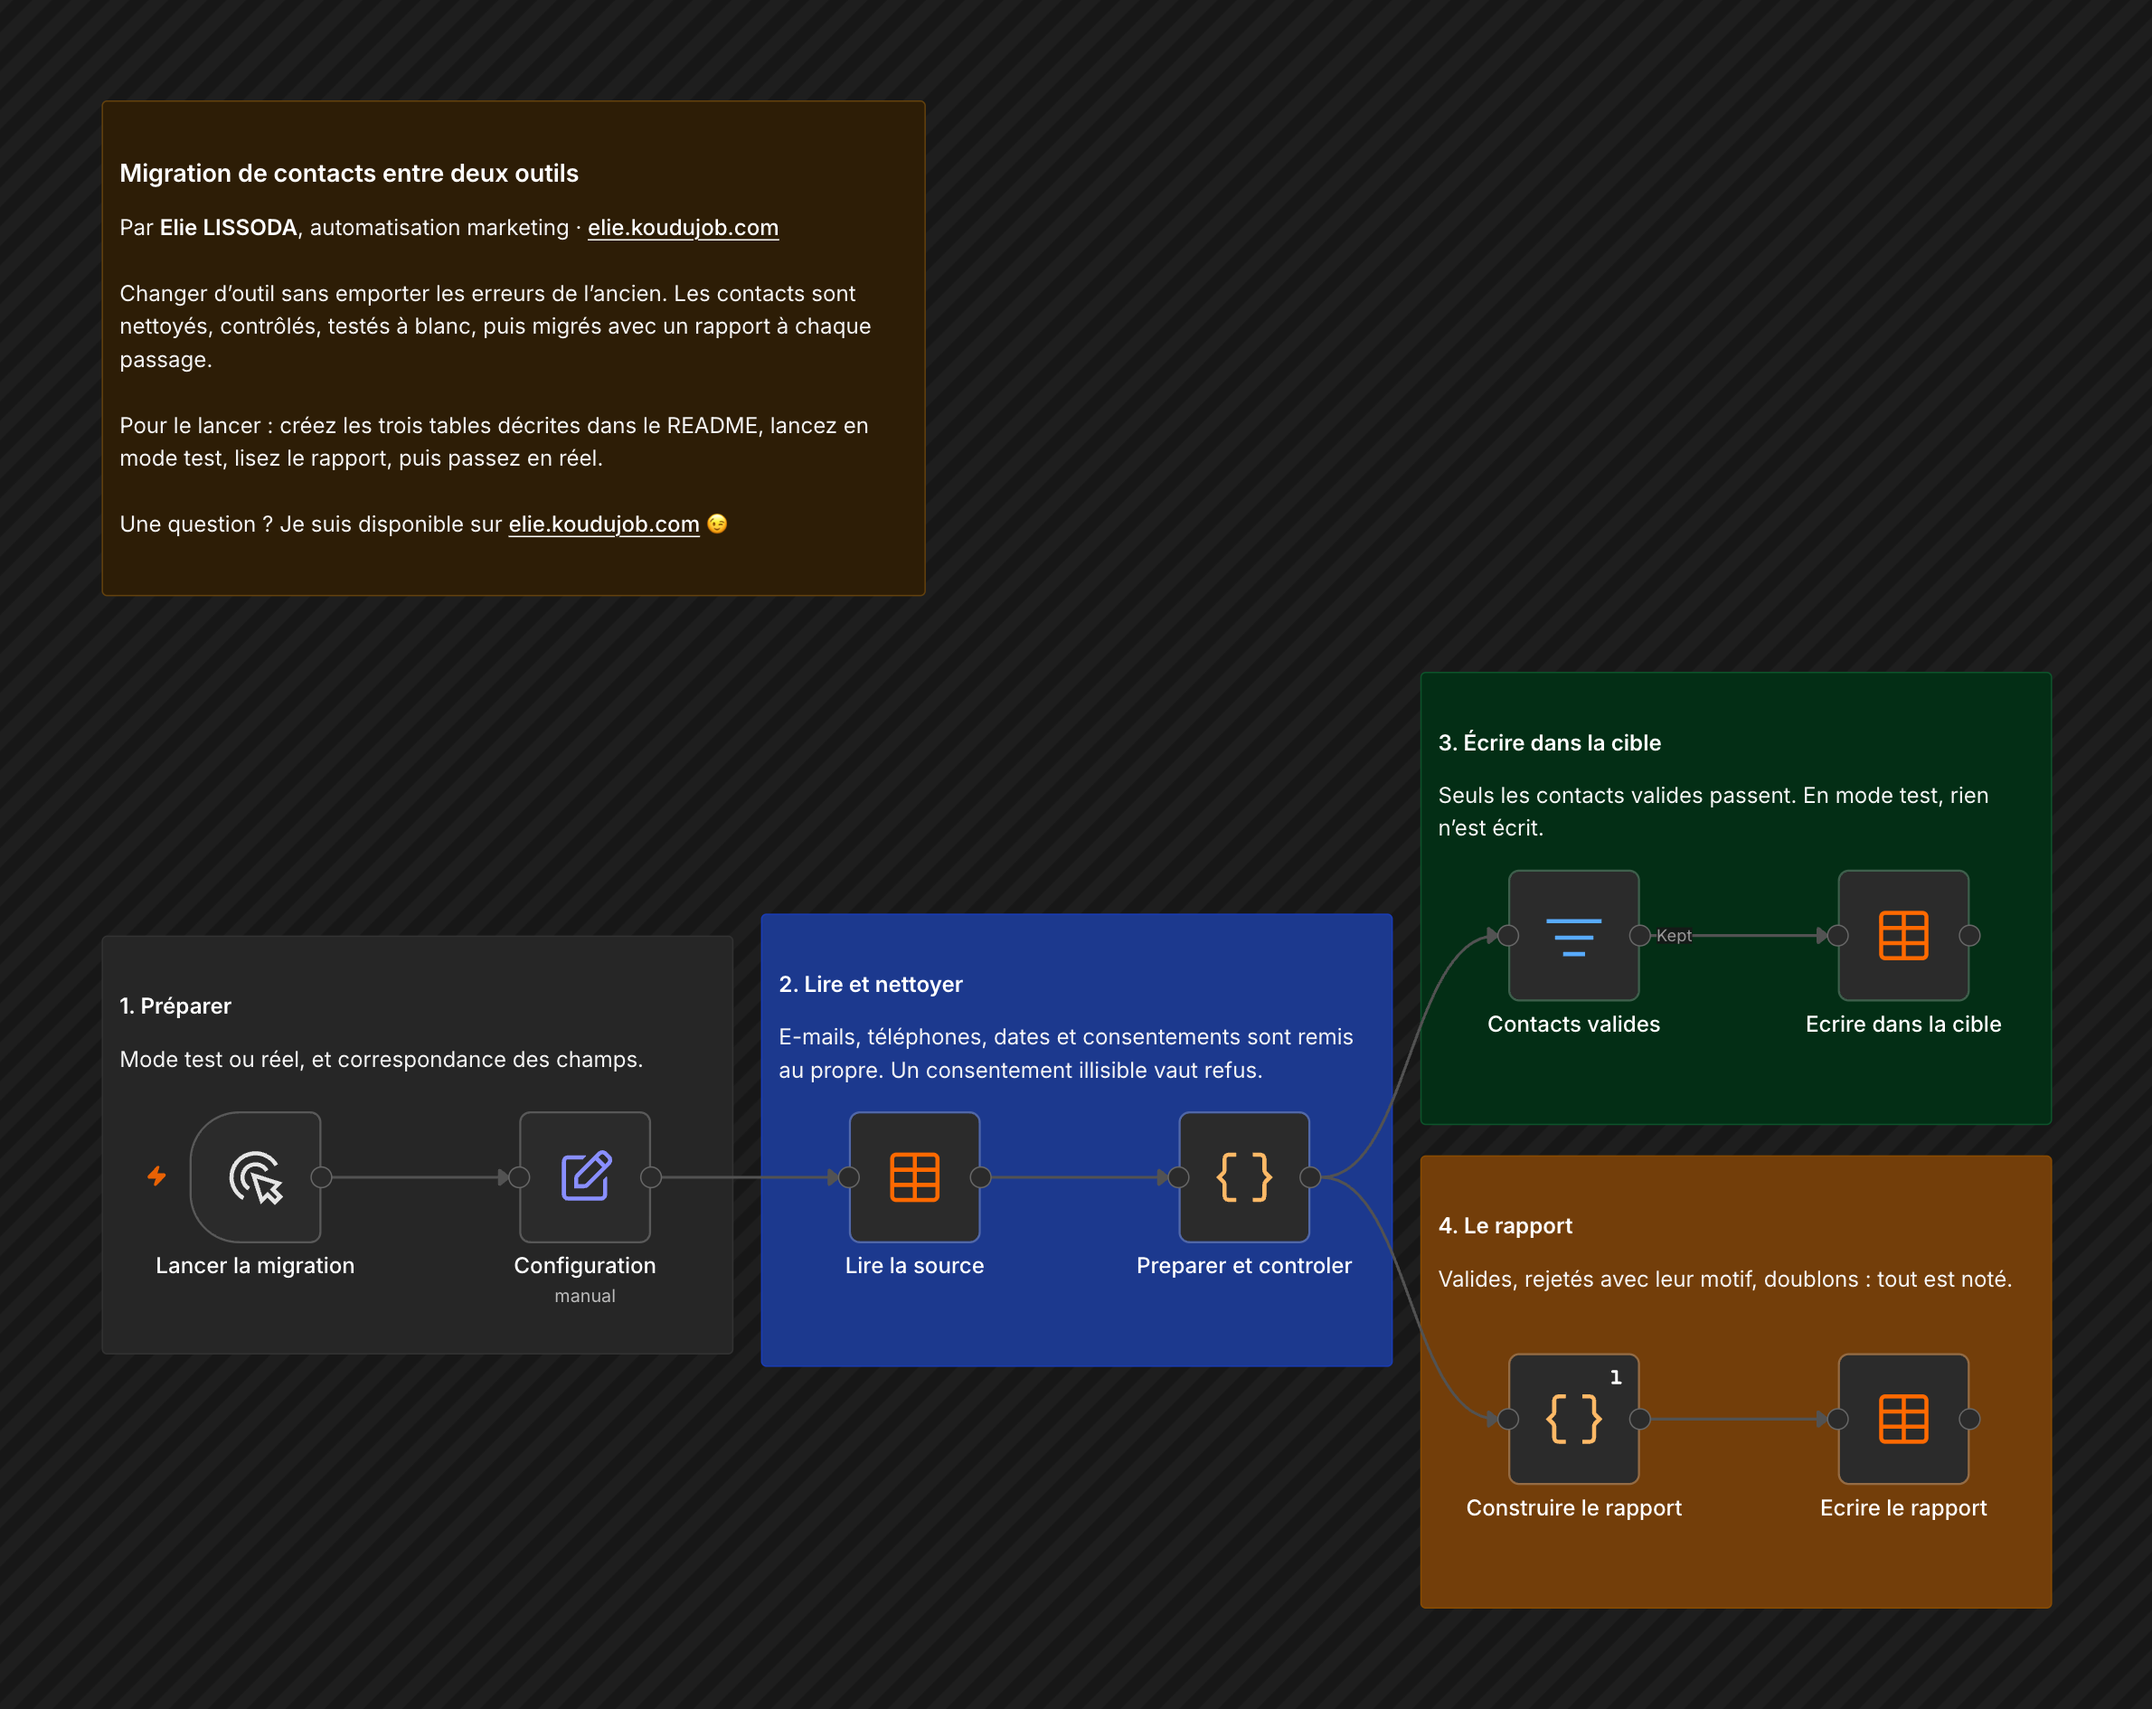
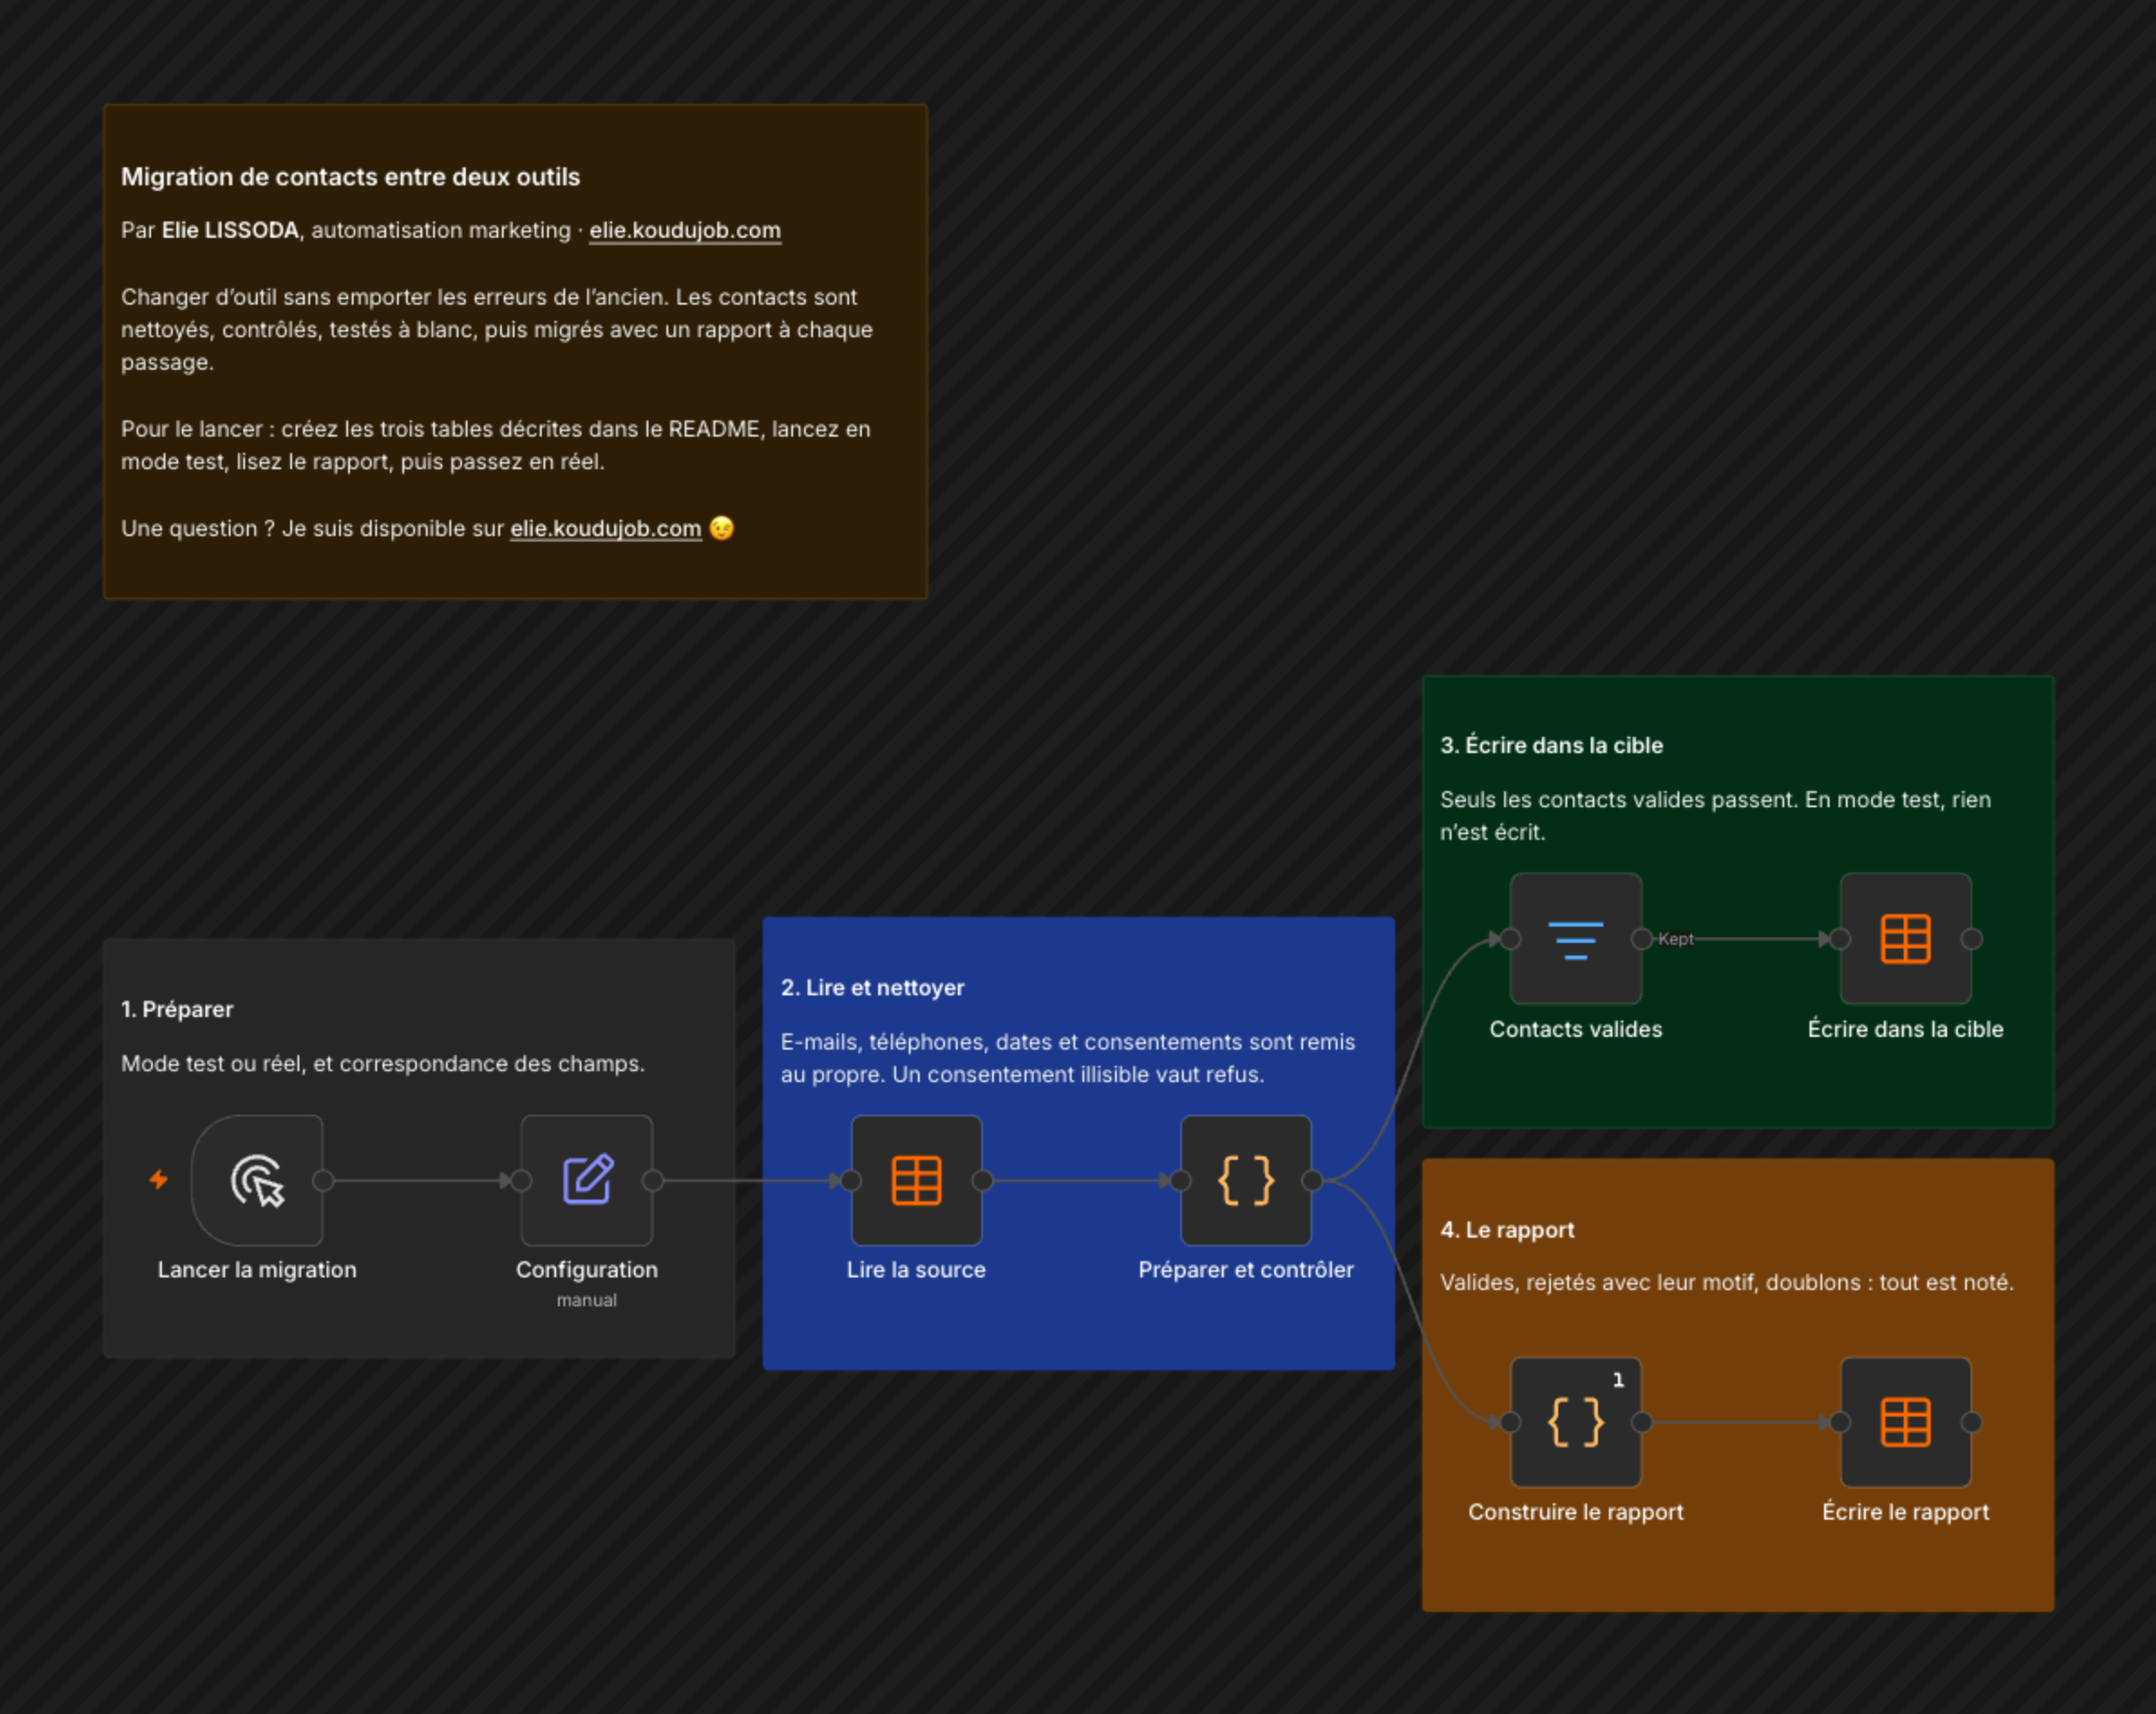
Corrige les accents de la migration et le nom de la certification n8n
- migration de contacts : « Préparer et contrôler », « Écrire dans la cible »
  et « Écrire le rapport » retrouvent leurs accents (workflow, README, capture)
- README principal : n8n Foundations Professional Certificate

diff --git a/migration-contacts/README.md b/migration-contacts/README.md
@@ -25,7 +25,7 @@ Je l'ai testé sur 12 contacts volontairement mal saisis : 8 migrés, 4 rejetés
 
 2. Dans Configuration, réglez `mode` (test ou reel), `mapping`, `champs_obligatoires` et `pays_defaut`.
 3. Importez `workflow.json` et choisissez vos tables. Aucun identifiant externe n'est nécessaire.
-4. Avec de vrais outils, remplacez « Lire la source » et « Ecrire dans la cible » par les nœuds de vos outils (HubSpot, Mailchimp, Brevo, fichier CSV). Les contrôles restent les mêmes.
+4. Avec de vrais outils, remplacez « Lire la source » et « Écrire dans la cible » par les nœuds de vos outils (HubSpot, Mailchimp, Brevo, fichier CSV). Les contrôles restent les mêmes.
 5. Lancez d'abord en mode test, lisez le rapport, puis passez en `reel`.
 
 ---

diff --git a/README.md b/README.md
@@ -59,4 +59,4 @@ Un souci pour installer un workflow, ou une idée d'automatisation pour votre é
 
 **Elie LISSODA**  
 SEO & GEO et automatisation marketing, Lyon  
-Certifié n8n Foundations & Workflow Automation et HubSpot Revenue Operations (2026)
+Certifications : n8n Foundations Professional Certificate, HubSpot Revenue Operations (2026)
